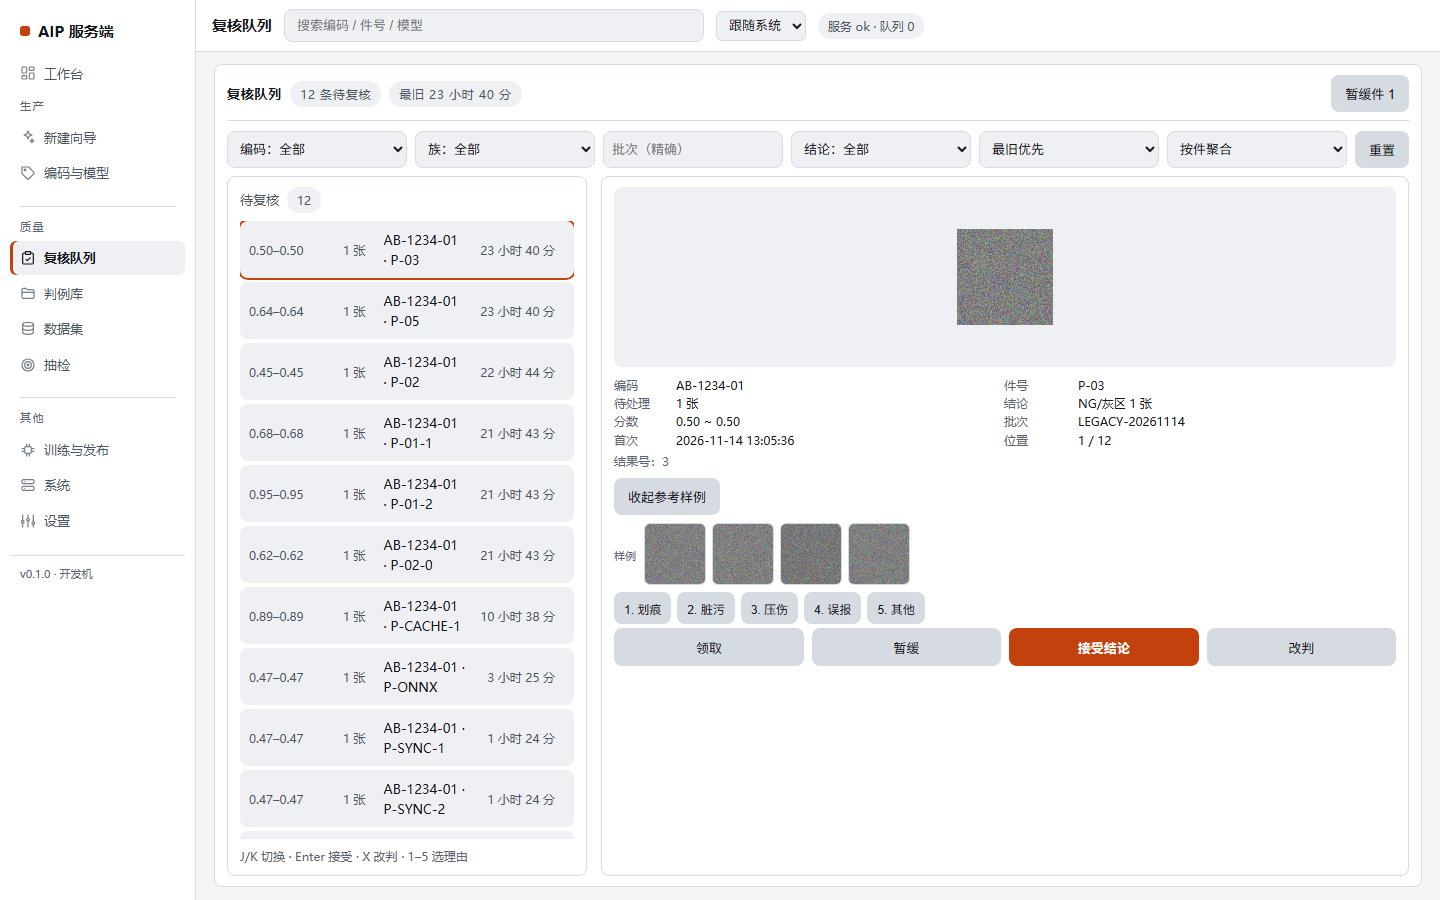
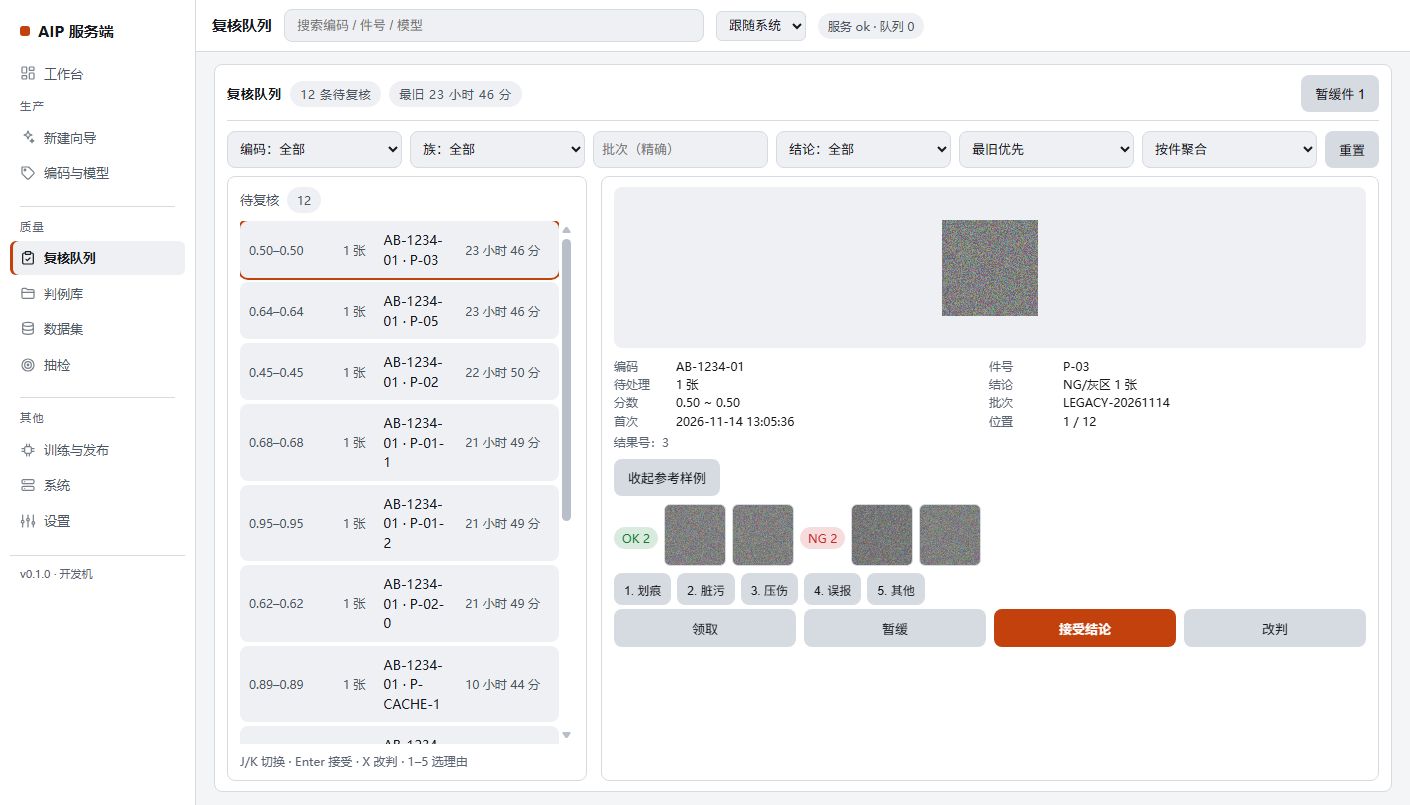
fix: 参考样例保留 OK/NG 分组与计数（每组2张+N）

diff --git a/aip/web/admin.html b/aip/web/admin.html
@@ -253,7 +253,9 @@
   .ref-strip figcaption{display:none}
   .ref-more{width:64px;height:64px;border-radius:6px;border:1px dashed var(--g3);
     background:var(--g2);color:var(--t2);font-size:12px;cursor:pointer}
-  .ref-strip .lbl{font-size:11px;color:var(--t3);margin-right:2px}
+  .ref-strip .tag{flex:0 0 auto}
+  .ref-strip .tag.ok{background:color-mix(in oklab,var(--ok) 16%,transparent);color:var(--ok)}
+  .ref-strip .tag.ng{background:color-mix(in oklab,var(--bad) 16%,transparent);color:var(--bad)}
   .reasons{display:flex;flex-wrap:wrap;gap:6px;margin:2px 0}
   .reasons button{padding:6px 10px;font-size:12px;min-height:32px}
   .review-detail .row button{min-height:38px}
@@ -1259,13 +1261,17 @@ async function renderQuality() {
           ...refs.ok.map(c => ({...c, kind: "ok"})),
           ...refs.ng.map(c => ({...c, kind: "ng"})),
         ];
-        const thumb = (c) => `<figure title="${esc(c.kind.toUpperCase())} · ${esc(c.reason || "无理由")}">
-          <img src="${c.image_url}" alt="${esc(c.kind)} 样例" loading="lazy" data-ref="1"></figure>`;
-        const shown = all.slice(0, 4);
+        const thumb = (c, kind) => `<figure title="${kind.toUpperCase()} · ${esc(c.reason || "无理由")}">
+          <img src="${c.image_url}" alt="${kind} 样例" loading="lazy" data-ref="1"></figure>`;
+        const okShow = refs.ok.slice(0, 2);
+        const ngShow = refs.ng.slice(0, 2);
+        const extra = (refs.ok.length - okShow.length) + (refs.ng.length - ngShow.length);
         box.innerHTML = `<div class="ref-strip">
-          <span class="lbl">样例</span>
-          ${shown.map(thumb).join("") || '<span class="muted">暂无</span>'}
-          ${all.length > 4 ? `<button class="ref-more" id="refMore">+${all.length - 4}</button>` : ""}
+          <span class="tag ok">OK ${refs.ok.length}</span>
+          ${okShow.map(c => thumb(c, "ok")).join("") || '<span class="muted">暂无</span>'}
+          <span class="tag ng">NG ${refs.ng.length}</span>
+          ${ngShow.map(c => thumb(c, "ng")).join("") || '<span class="muted">暂无</span>'}
+          ${extra > 0 ? `<button class="ref-more" id="refMore">+${extra}</button>` : ""}
         </div>
         ${refs.note ? `<div class="muted" style="margin-top:2px">${esc(refs.note)}</div>` : ""}`;
         box.hidden = false;
